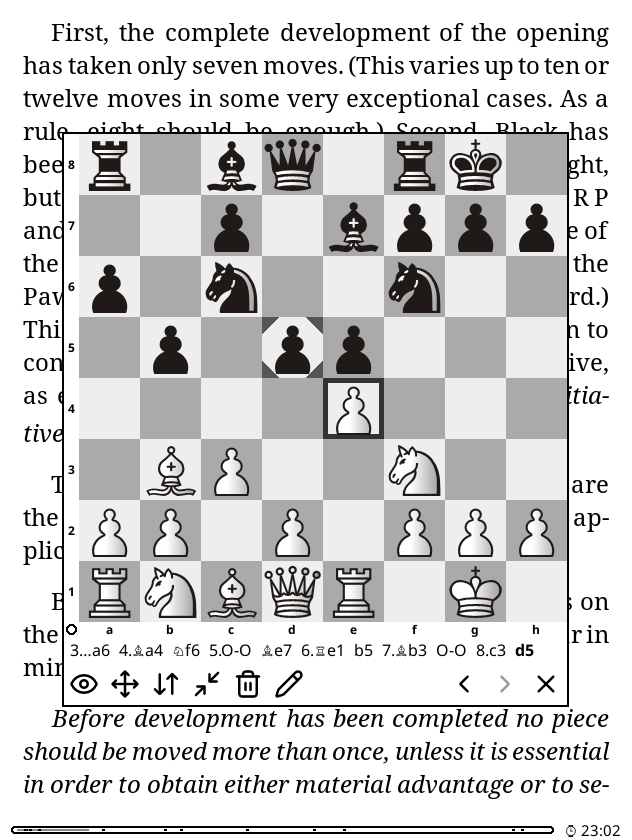
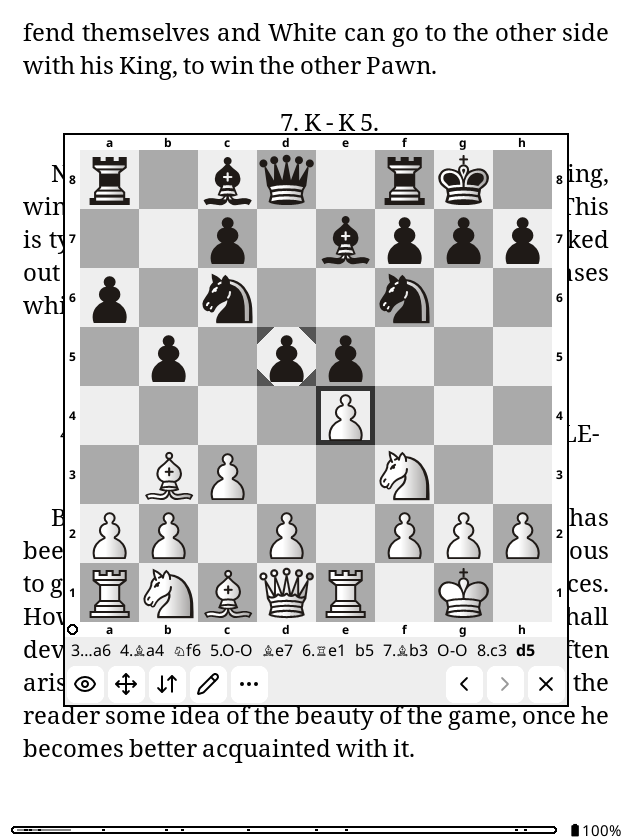
README: new screenshots, with the split screen and dark mode

diff --git a/README.md b/README.md
@@ -24,6 +24,8 @@ A KOReader plugin for reading chess books: an interactive board that floats **ov
 
 <img src="screenshots/play.png" width="300" alt="A selected pawn and its targets"/> <img src="screenshots/editor.png" width="300" alt="The position editor"/>
 
+<img src="screenshots/split.png" width="300" alt="The screen split: the book above, the board and its moves below"/> <img src="screenshots/dark.png" width="300" alt="The split screen drawn dark"/>
+
 ## Install
 
 From Storefront or AppStore, searching for "Chess Board". Or by hand: copy the `chessboard.koplugin` folder to `koreader/plugins/` on the reader and restart KOReader.
